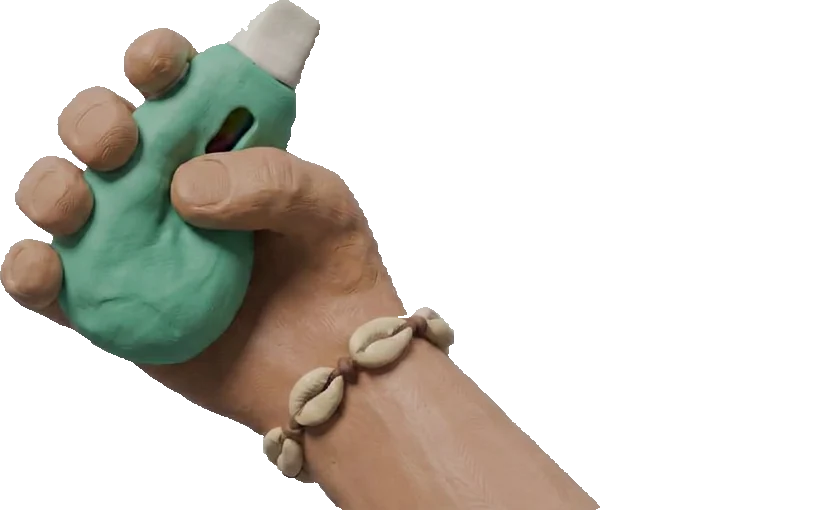
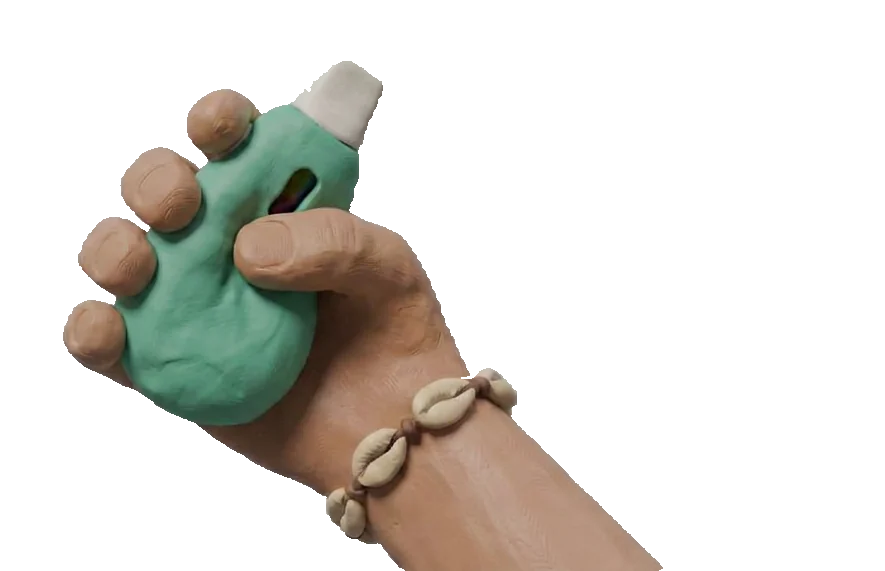
Hands animate like stop-motion; nothing pops in the middle of the screen
Hands: new held-out idle pose; grabbing someone plays a stepped reach (out, push, tilt) that aims the pod's
mouthpiece at their mouth on screen, every puff pumps the thumb, release flicks back. The left hand stays off
screen until you grab someone, then swings up from the corner to their head and drops away after. Animation
runs on real time, so the game's grab slow-mo doesn't stall it.

Centre-screen clutter removed: the '-1' paper-number pop, the confetti from flashes, and the vape boxes tossed
across the view on every puff (now tossed over the shoulder, still littering the ground).

Changed region(s): [[0.0, 0.0, 0.6083, 1.0], [0.5779, 0.7353, 0.6691, 0.8824], [0.6691, 0.8824, 0.7603, 1.0]]

diff --git a/js/hands.js b/js/hands.js
@@ -1,11 +1,13 @@
 /* hands mod: the first-person hands are flat stop-motion clay "photos" (cut-out sprites), not 3D models.
-   Right hand + pod vape sits low in the bottom-right corner; left fingertips peek in at the bottom-left.
-   Frames swap at ~8 fps (clay boil); every move snaps in ~12 fps steps like stop-motion.
-   - walking: a small stepped bob
-   - holding someone: the right hand pushes the vape up toward their mouth (hit frames) and the left hand grabs
-   - release: a quick recoil
-   - cutscenes / title / win: hands drop out of frame, then rise back in when play resumes
-   The 3D arm stays in the scene, invisible, because the game uses its vape-tip position (a held person's mouth locks onto it). */
+   Right hand (cowrie bracelet, green pebble pod vape) lives in the bottom-right corner:
+   - idle: holds the pod out in front ("out"); tucks it in ("rest") while running
+   - grab someone: a stop-motion reach (out → hit → tilt) and the pod aims at their mouth on screen
+   - holding: every puff pumps the thumb (tilt ↔ hit) with a tiny shove
+   - release: a flick back (hit → out) with a recoil
+   Left hand is off screen until you grab someone's head: it steps up from the bottom-left toward their head
+   (open → grip) and drops away after. Everything snaps at ~12 fps with a little clay boil; hands drop out of frame
+   for cutscenes and rise back for play. The 3D arm stays in the scene, invisible, because the game still uses its
+   vape-tip position (a held person's mouth locks onto it). */
 (()=>{const X=window.TMV;if(!X||X.hands)return;const D=document;
 const RM=matchMedia('(prefers-reduced-motion: reduce)');
 const css=D.createElement('style');css.textContent=`
@@ -13,55 +15,79 @@ const css=D.createElement('style');css.textContent=`
 #hands .h{position:absolute;bottom:0;will-change:transform}
 #hands .h img{position:absolute;inset:0;width:100%;height:100%;visibility:hidden;filter:drop-shadow(0 4px 6px rgba(20,10,0,.28))}
 #hands .h img.on{visibility:visible}
-#hands .hR{right:0;height:var(--hR,52vh)}
-#hands .hL{left:0;height:var(--hL,30vh)}
-@media (orientation:portrait){#hands .hR{height:var(--hRp,34vh)}#hands .hL{height:var(--hLp,20vh)}}`;
+#hands .hR{right:0;height:var(--hR,48vh);transform-origin:100% 100%}
+#hands .hL{left:0;height:var(--hL,46vh);transform-origin:0 100%;transform:translateY(110%)}
+@media (orientation:portrait){#hands .hR{height:var(--hRp,36vh)}#hands .hL{height:var(--hLp,22vh)}}`;
 D.head.appendChild(css);
 
 const wrap=D.createElement('div');wrap.id='hands';
 const hud=D.getElementById('hud');if(hud&&hud.parentNode===X.game)X.game.insertBefore(wrap,hud);else X.game.appendChild(wrap);
 const R=D.createElement('div');R.className='h hR';const L=D.createElement('div');L.className='h hL';wrap.append(L,R);
 
-let M=null;const F={};// F.idle,F.hit,F.lrest,F.lgrab: arrays of <img>
-function mk(par,list){return(list||[]).map(src=>{const i=new Image();i.decoding='async';i.src='assets/hands/'+src;i.alt='';par.appendChild(i);return i})}
-fetch('assets/hands/hands.json',{cache:'no-cache'}).then(r=>r.ok?r.json():null).then(j=>{if(!j)return;M=j;
-  R.style.aspectRatio=j.R.w+'/'+j.R.h;L.style.aspectRatio=j.L.w+'/'+j.L.h;
-  F.idle=mk(R,j.R.idle);F.hit=mk(R,j.R.hit&&j.R.hit.length?j.R.hit:j.R.idle);F.lrest=mk(L,j.L.rest);F.lgrab=mk(L,j.L.grab&&j.L.grab.length?j.L.grab:j.L.rest);
-  X.armR.visible=false}).catch(()=>{});
+let M=null;const FR={},FL={};
+function mk(par,set,map){for(const k in set){const i=new Image();i.decoding='async';i.src='assets/hands/'+set[k].src;i.alt='';par.appendChild(i);map[k]=i}}
+fetch('assets/hands/hands.json',{cache:'no-cache'}).then(r=>r.ok?r.json():null).then(j=>{if(!j||!j.R||!j.R.f)return;M=j;
+  R.style.aspectRatio=j.R.w+'/'+j.R.h;L.style.aspectRatio=j.L.w+'/'+j.L.h;mk(R,j.R.f,FR);mk(L,j.L.f,FL);X.armR.visible=false}).catch(()=>{});
 
-let cur={R:null,L:null};
+const cur={R:null,L:null};
 function show(side,img){if(cur[side]===img)return;if(cur[side])cur[side].classList.remove('on');cur[side]=img;if(img)img.classList.add('on')}
-const pick=(a,k)=>a&&a.length?a[k%a.length]:null;
 
-let up=0,acc=0,boilT=0,boilK=0,bobPh=0,lastX=X.px,lastZ=X.pz,recoil=0,hitT=0,lgrab=0,jolt=0;
-X.on('release',(n,kind)=>{if(kind!=='passive')recoil=.22});
-X.on('vape',()=>{jolt=.08});
-X.on('grab',()=>{hitT=0});
+// --- state ---
+let up=0,acc=0,boilK=0,boilT=0,bobPh=0,lastX=X.px,lastZ=X.pz,sp=0;
+let phase='idle',queue=[],pump=0,recoil=0,aimK=0,lstep=0,held=null;
+const tgt={x:0,y:0,ok:false},V=X.T?new X.T.Vector3():null;
+X.on('grab',n=>{held=n;phase='reach';queue=['hit','tilt']});
+X.on('vape',()=>{if(phase==='hold')pump=1});
+X.on('release',(n,kind)=>{if(kind==='passive')return;phase='flick';queue=['hit','out'];recoil=1;held=null});
 
-const STEP=1/12;
-X.on('prerender',dt=>{dt=Math.min(.1,dt||1/60);if(!M)return;
-  X.armR.visible=false;// the 3D arm only provides the vape-tip position now (also hides the 3D left grab hand)
+function aimAt(){tgt.ok=false;const n=X.held||held;if(!n||!V||!X.mouth)return;try{X.mouth(n,V);V.project(X.cam);if(V.z>1)return;
+  const g=X.game.getBoundingClientRect();tgt.x=(V.x+1)/2*g.width;tgt.y=(1-V.y)/2*g.height;tgt.ok=true}catch(e){}}
+
+const STEP=1/12;let lastT=performance.now();
+X.on('prerender',gdt=>{const now=performance.now(),dt=Math.min(.1,(now-lastT)/1000)||1/60;lastT=now;if(!M)return;
+  X.armR.visible=false;// the 3D arm only provides the vape-tip position now (also hides the old 3D left hand)
   const play=X.mode==='play'||X.mode==='paused';
-  // rise in / drop out
   up=Math.max(0,Math.min(1,up+(play?dt/.35:-dt/.2)));
-  const held=!!X.held&&X.mode==='play';
-  lgrab=Math.max(0,Math.min(1,lgrab+(held?dt/.18:-dt/.25)));
-  recoil=Math.max(0,recoil-dt);jolt=Math.max(0,jolt-dt);if(held)hitT+=dt;
-  // walking bob from actual movement
-  const sp=Math.hypot(X.px-lastX,X.pz-lastZ)/dt;lastX=X.px;lastZ=X.pz;if(sp<20)bobPh+=dt*Math.min(9,sp*1.6);
-  acc+=dt;if(acc<STEP)return;acc=0;// everything below snaps at ~12 fps
-  boilT+=STEP;if(boilT>=.125){boilT=0;boilK=(boilK+1+(Math.random()*2|0))%6}
-  const rm=RM.matches;
-  // right hand
-  show('R',pick(held?F.hit:F.idle,rm?0:boilK));
-  const drop=(1-up)*105,bob=sp>.3&&!rm?Math.abs(Math.sin(bobPh))*1.6:0,sway=sp>.3&&!rm?Math.sin(bobPh)*.9:0;
-  let tx=sway,ty=drop+bob+recoil*14,rot=0,sc=1;
-  if(held){const k=Math.min(1,hitT/.15);tx-=1.5*k;ty-=3*k;rot=-2*k;sc=1-.12*k;if(jolt>0&&!rm){tx+=(Math.random()-.5)*.8;ty+=(Math.random()-.5)*.8}}
-  if(!rm){const j=boilK*1.37;tx+=Math.sin(j*2.1)*.12;ty+=Math.cos(j*1.7)*.35;rot+=Math.sin(j*3.3)*.35}
-  R.style.transform=`translate(${tx.toFixed(2)}vw,${ty.toFixed(2)}%) rotate(${rot.toFixed(2)}deg) scale(${sc.toFixed(3)})`;R.style.transformOrigin='100% 100%';
-  // left hand: fingertips at rest, grabs (rises) while holding someone
-  show('L',pick(lgrab>.5?F.lgrab:F.lrest,rm?0:boilK));
-  let ly=(1-up)*105+bob*.6,lx=-sway*.6,lr=0;if(!rm){const j=boilK*1.91;lx+=Math.sin(j*1.3)*.1;ly+=Math.cos(j*2.3)*.4;lr=Math.sin(j*2.9)*.4}
-  L.style.transform=`translate(${lx.toFixed(2)}vw,${ly.toFixed(2)}%) rotate(${lr.toFixed(2)}deg)`;L.style.transformOrigin='0 100%'});
-X.hands={wrap};
+  const v=Math.hypot(X.px-lastX,X.pz-lastZ)/Math.max(1e-3,gdt||dt);lastX=X.px;lastZ=X.pz;if(v<20){sp+=(v-sp)*Math.min(1,dt*8);bobPh+=dt*Math.min(9,sp*1.6)}
+  if(phase==='hold'&&!X.held){phase='flick';queue=['hit','out'];recoil=1;held=null}
+  acc+=dt;if(acc<STEP)return;acc=0;// everything below snaps at ~12 fps (stop-motion)
+  const rm=RM.matches;boilT+=STEP;if(boilT>=.125){boilT=0;boilK=(boilK+1+(Math.random()*2|0))%6}
+  // ---- right hand frame
+  let f;
+  if(queue.length){f=queue.shift();if(!queue.length){if(phase==='reach')phase='hold';else if(phase==='flick')phase='idle'}}
+  else if(phase==='hold'){f=pump>0?'hit':'tilt';if(pump>0)pump--}
+  else f=sp>4.5?'rest':'out';
+  show('R',FR[f]||FR.out||FR.rest);
+  // ---- right hand placement
+  const g=X.game.getBoundingClientRect(),W=g.width,H=g.height,Wc=R.offsetWidth,Hc=R.offsetHeight;
+  const walking=sp>.3&&!rm,bob=walking?Math.abs(Math.sin(bobPh))*H*.016:0,sway=walking?Math.sin(bobPh)*W*.008:0;
+  let tx=sway,ty=(1-up)*Hc*1.05+bob+recoil*H*.05,rot=0;recoil=Math.max(0,recoil-.34);
+  const aiming=(phase==='reach'||phase==='hold')&&X.mode==='play';aimK=Math.max(0,Math.min(1,aimK+(aiming?.34:-.5)));
+  // resting pose: park the pod's mouthpiece at ~68% across, a bit below middle, whatever the screen shape
+  {const fm=M.R.f[f]&&M.R.f[f].mp;if(fm&&f==='out'){const mx=W-Wc+fm[0]*Wc,my=H-Hc+fm[1]*Hc,k=1-aimK;
+    tx+=Math.max(-W*.1,Math.min(Wc*.5,(W*.68-mx)))*k;ty+=Math.max(-H*.1,Math.min(H*.2,(H*.6-my)))*k}}
+  if(aimK>0){aimAt();const fm=M.R.f[f]&&M.R.f[f].mp;
+    if(tgt.ok&&fm){const px=W,py=H,mx=W-Wc+fm[0]*Wc,my=H-Hc+fm[1]*Hc;
+      let th=Math.atan2(tgt.y-py,tgt.x-px)-Math.atan2(my-py,mx-px);th=Math.atan2(Math.sin(th),Math.cos(th));
+      th=Math.max(-.32,Math.min(.32,th))*aimK;rot+=th*180/Math.PI;
+      // after rotating, nudge the pod part of the way toward the mouth
+      const c=Math.cos(th),s=Math.sin(th),rx=px+(mx-px)*c-(my-py)*s,ry=py+(mx-px)*s+(my-py)*c;
+      tx+=Math.max(-W*.08,Math.min(W*.04,(tgt.x-rx)*.3*aimK));ty+=Math.max(-H*.1,Math.min(H*.05,(tgt.y-ry)*.3*aimK))}}
+  if(pump===1&&!rm){tx-=W*.006;ty-=H*.01}
+  if(!rm){const j=boilK*1.37;tx+=Math.sin(j*2.1)*W*.0012;ty+=Math.cos(j*1.7)*H*.003;rot+=Math.sin(j*3.3)*.35}
+  R.style.transform=`translate(${tx.toFixed(1)}px,${ty.toFixed(1)}px) rotate(${rot.toFixed(2)}deg)`;
+  // ---- left hand: only while grabbing someone; steps up (open → grip) toward their head, drops after
+  const want=(phase==='reach'||phase==='hold')&&X.mode==='play'&&up>.9;
+  lstep=want?Math.min(3,lstep+1):Math.max(0,lstep-1);
+  if(lstep===0){L.style.transform='translateY(110%)';show('L',null)}
+  else{show('L',lstep<2?FL.rest:FL.grab);const Wl=L.offsetWidth;
+    const Hl=L.offsetHeight,hide=[1.1,.55,.2,0][lstep],reach=[0,.3,.75,1][lstep];let lx=0,ly=hide*Hl+bob*.6,lr=-4*(3-lstep);
+    if(tgt.ok){// grip point ≈ fingers at (80%,15%) of the sprite; put it just left of / below the held mouth (side of the head)
+      // the forearm is cut at the sprite's left edge, so the hand stays pinned to the screen edge: lift it, then swing it
+      // round the bottom-left corner so the fingers land beside the head
+      const gx=Wl*.8,gy0=H-Hl+Hl*.15,lift=0;
+      const gy=gy0+lift,a0=Math.atan2(gy-H-lift,gx),a1=Math.atan2(tgt.y+H*.04-H-lift,tgt.x-W*.05);
+      lr+=Math.max(-24,Math.min(16,(a1-a0)*180/Math.PI))*reach}if(!rm){const j=boilK*1.91;lx+=Math.sin(j*1.3)*W*.001;ly+=Math.cos(j*2.3)*H*.003;lr+=Math.sin(j*2.9)*.4}
+    L.style.transform=`translate(${lx.toFixed(1)}px,${ly.toFixed(1)}px) rotate(${lr.toFixed(2)}deg)`}});
+X.hands={wrap,get phase(){return phase}};
 })();

diff --git a/js/juice.js b/js/juice.js
@@ -70,7 +70,7 @@ const spSV=paperSVG(speed,'jzps');function spCut(){let h='';for(let i=0;i<26;i++
 const flSV=paperSVG(flash,'jzpf');
 function doFlash(col,a,ms){try{const d=frameVariants(14,1)[0];flSV.querySelector('g').innerHTML=`<path fill-rule="evenodd" d="${d}" fill="${col}"/><path fill-rule="evenodd" d="${d}" fill="url(#jzpf)" style="mix-blend-mode:multiply"/>`;
   flash.animate([{opacity:Math.min(1,a+.2)},{opacity:a*.7,offset:.34},{opacity:0}],{duration:ms||300,easing:'steps(3,end)'});
-  if(rm())return;for(let i=0;i<10;i++){const c=document.createElement('div');c.className='jz-cf';const w=10+Math.random()*16,h=6+Math.random()*12;
+  if(true)return;/* no confetti from the centre (user: no shapes popping mid-screen) */for(let i=0;i<10;i++){const c=document.createElement('div');c.className='jz-cf';const w=10+Math.random()*16,h=6+Math.random()*12;
     c.style.cssText+=`width:${w}px;height:${h}px;background:${i%3?col:'#fff7ea'} url(${PAPER});background-blend-mode:multiply;background-size:40px;clip-path:polygon(${jag([[0,0],[100,0],[100,100],[0,100]],22).split(' ').map(q=>q.split(',').map(v=>v+'%').join(' ')).join(',')})`;
     game.appendChild(c);const an=Math.random()*6.28,dist=120+Math.random()*220,rot=(Math.random()-.5)*540;
     c.animate([{transform:'translate(-50%,-50%) rotate(0deg)',opacity:1},{transform:`translate(calc(-50% + ${Math.cos(an)*dist}px),calc(-50% + ${Math.sin(an)*dist+60}px)) rotate(${rot}deg)`,opacity:0}],{duration:650,easing:'steps(8,end)'}).onfinish=()=>c.remove()}}catch(e){}}

diff --git a/index.html b/index.html
@@ -723,7 +723,7 @@ for(let i=0;i<70;i++){const s=new T.Sprite(new T.SpriteMaterial({transparent:tru
 function emo(ch,x,y,z,vx,vy,vz,sz){const p=emos[eI=(eI+1)%emos.length];p.s.material.map=emoTex(ch);p.s.material.needsUpdate=true;p.s.position.set(x,y,z);p.s.scale.set(sz,sz,1);p.vx=vx;p.vy=vy;p.vz=vz;p.life=p.max=rand(2.2,3.8);p.w=rand(0,6);p.s.visible=true}
 const litter=[];for(let i=0;i<40;i++){const m=box(scene,.15,.21,.1,new T.MeshToonMaterial({gradientMap:GRAD,color:0xffffff}),0,-5,0);litter.push({m,vx:0,vy:0,vz:0,on:false})}
 let lI=0,lT=0;
-function toss(){if(lT>0)return;lT=.12;swapT=.2;if(tossT<=0){tossT=.32;clip('sfx/toss',{vol:.22,rate:rand(.85,1.25),pan:-.3})}const l=litter[lI=(lI+1)%litter.length],s=Math.sin(yaw),c=Math.cos(yaw);l.m.material.color.setHex(flav[1]);l.m.position.set(px+c*.4-s*.5,1.2,pz-s*.4-c*.5);l.vx=c*rand(2,4)-s*2;l.vz=-s*rand(2,4)-c*2;l.vy=rand(2,4);l.on=true}
+function toss(){if(lT>0)return;lT=.12;swapT=.2;if(tossT<=0){tossT=.32;clip('sfx/toss',{vol:.22,rate:rand(.85,1.25),pan:-.3})}const l=litter[lI=(lI+1)%litter.length],s=Math.sin(yaw),c=Math.cos(yaw);l.m.material.color.setHex(flav[1]);/* tossed over the shoulder: never crosses the middle of the screen */l.m.position.set(px+s*.7+c*.25,1.3,pz+c*.7-s*.25);l.vx=s*rand(2,4)+c*rand(-.6,.6);l.vz=c*rand(2,4)-s*rand(-.6,.6);l.vy=rand(1.5,3);l.on=true}
 
 /* ================= POWER-UPS ================= */
 const PW={boost:{label:'BOOST MODE',e:'🔥',c:0xff7a1a,dur:12,msg:'BOOST MODE — VAPE IS ON FIRE'},

diff --git a/js/paper.js b/js/paper.js
@@ -161,7 +161,7 @@ ${GK}
 #game .pw i{height:6px;margin-top:6px;background:var(--c);border-radius:3px;${CRAY}}
 
 /* ---- "−N": cut-paper numbers that pop and drift ---- */
-#game #gain{display:flex;gap:1px;font-family:var(--display);font-size:clamp(20px,4.4vw,34px);text-shadow:none;color:${C.ink};filter:var(--pp-sh)}
+#game #gain{display:none!important;/* no number popping mid-screen; the counter up top shows it */gap:1px;font-family:var(--display);font-size:clamp(20px,4.4vw,34px);text-shadow:none;color:${C.ink};filter:var(--pp-sh)}
 #game #gain.go{animation:ppgain 1.1s steps(1,end) both}
 #game #gain .pp-l{padding:.1em .1em .04em}
 
